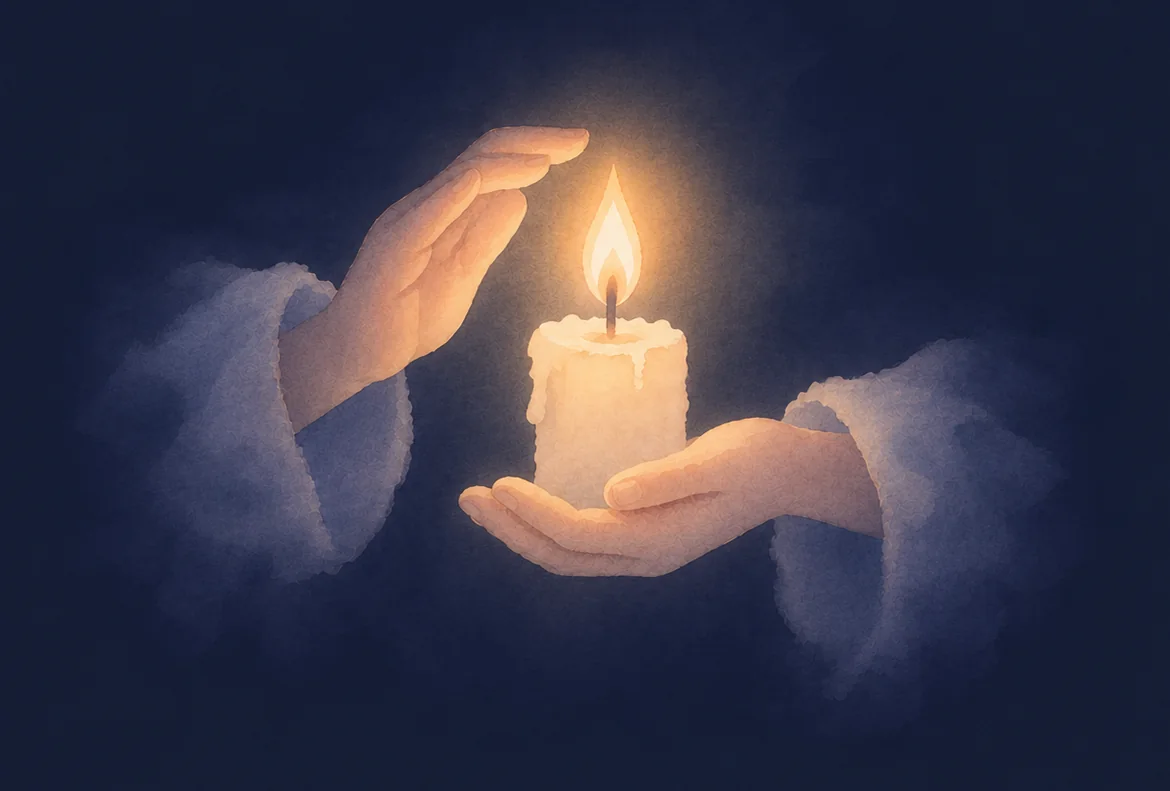
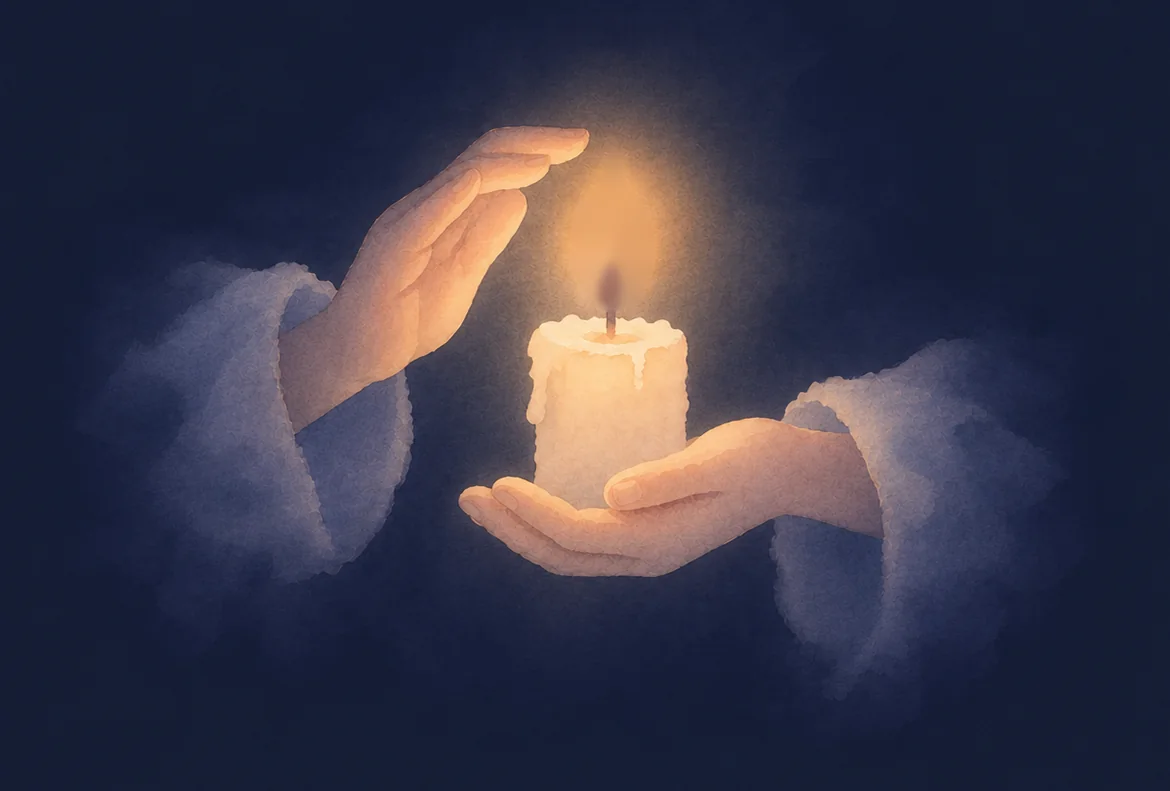
Bougie du soir : flamme détourée qui se balance et frémit depuis la mèche, sans dédoublement
Claude-Session: https://claude.ai/code/session_0196ydQFmaQnBobAw6Q2y82i

Changed region(s): [[0.4923, 0.2124, 0.5538, 0.3944]]

diff --git a/src/css/app.css b/src/css/app.css
@@ -418,7 +418,13 @@ h2 { margin: 0 0 8px; font-weight: 300; font-size: clamp(22px, 7vw, 28px); line-
 /* La bougie : l'image entière, plus fondue sur les côtés ; la flamme vacille depuis la mèche, son halo respire. */
 .respiration.bougie { aspect-ratio: 1672 / 941; margin-top: 4px; }
 .respiration.bougie.nuit { aspect-ratio: 1213 / 820; }
-.b-flamme { position: absolute; background-repeat: no-repeat; transform-origin: 50% 92%;
+.b-flamme { position: absolute; animation: b-balance 5.3s ease-in-out infinite; }
+.b-flamme img { display: block; width: 100%; height: 100%; animation: b-fremit 1.9s ease-in-out infinite; }
+/* Une flamme dans l'air calme : un lent balancement, et de petits frémissements irréguliers qui l'étirent et l'affinent. */
+@keyframes b-balance { 0%, 100% { transform: rotate(0); } 22% { transform: rotate(-1.4deg); } 41% { transform: rotate(.6deg); } 63% { transform: rotate(1.3deg); } 82% { transform: rotate(-.5deg); } }
+@keyframes b-fremit { 0%, 100% { transform: scale(1, 1); } 13% { transform: scale(.985, 1.035); } 21% { transform: scale(1.01, .985); } 34% { transform: scale(.99, 1.02); }
+  46% { transform: scale(1.005, .995); } 58% { transform: scale(.975, 1.05); } 66% { transform: scale(1.01, .98); } 79% { transform: scale(.995, 1.015); } 90% { transform: scale(1.005, .99); } }
+.b-flamme-jour { position: absolute; background-repeat: no-repeat; transform-origin: 50% 92%;
   -webkit-mask-image: radial-gradient(ellipse 50% 50% at 50% 50%, #000 60%, transparent 100%); mask-image: radial-gradient(ellipse 50% 50% at 50% 50%, #000 60%, transparent 100%);
   animation: b-vacille 2.3s ease-in-out infinite; }
 @keyframes b-vacille { 0% { transform: scale(1, 1) skewX(0); } 9% { transform: scale(.97, 1.05) skewX(-2deg); } 17% { transform: scale(1.02, .97) skewX(1.5deg); }
@@ -426,11 +432,13 @@ h2 { margin: 0 0 8px; font-weight: 300; font-size: clamp(22px, 7vw, 28px); line-
   58% { transform: scale(1.02, .96) skewX(.5deg); } 66% { transform: scale(.99, 1.06) skewX(2deg); } 77% { transform: scale(1.01, .98) skewX(-1.5deg); }
   88% { transform: scale(.98, 1.03) skewX(1deg); } 100% { transform: scale(1, 1) skewX(0); } }
 .b-halo { position: absolute; width: 46%; aspect-ratio: 1; transform: translate(-50%, -50%); border-radius: 50%;
-  background: radial-gradient(circle, rgba(255,214,150,.55) 0%, rgba(255,200,130,.22) 35%, rgba(255,200,130,0) 70%); animation: b-respire 3.1s linear infinite; }
-.bougie.nuit .b-halo { mix-blend-mode: screen; width: 60%; }
-.bougie.jour .b-halo { background: radial-gradient(circle, rgba(255,226,170,.5) 0%, rgba(255,220,160,.18) 35%, rgba(255,220,160,0) 70%); }
-@keyframes b-respire { 0% { opacity: .55; } 11% { opacity: .8; } 19% { opacity: .45; } 30% { opacity: .7; } 38% { opacity: .6; } 49% { opacity: .9; }
+  background: radial-gradient(circle, rgba(255,214,150,.55) 0%, rgba(255,200,130,.22) 35%, rgba(255,200,130,0) 70%); animation: b-respire 1.9s ease-in-out infinite; }
+.bougie.nuit .b-halo { mix-blend-mode: screen; width: 60%; animation: b-respire 1.9s ease-in-out infinite; }
+.bougie.jour .b-halo { animation: b-respire-jour 3.1s linear infinite; }
+@keyframes b-respire-jour { 0% { opacity: .55; } 11% { opacity: .8; } 19% { opacity: .45; } 30% { opacity: .7; } 38% { opacity: .6; } 49% { opacity: .9; }
   57% { opacity: .5; } 68% { opacity: .75; } 76% { opacity: .4; } 87% { opacity: .7; } 100% { opacity: .55; } }
+.bougie.jour .b-halo { background: radial-gradient(circle, rgba(255,226,170,.5) 0%, rgba(255,220,160,.18) 35%, rgba(255,220,160,0) 70%); }
+@keyframes b-respire { 0%, 100% { opacity: .7; } 13% { opacity: .8; } 21% { opacity: .64; } 34% { opacity: .76; } 46% { opacity: .7; } 58% { opacity: .85; } 66% { opacity: .62; } 79% { opacity: .74; } 90% { opacity: .68; } }
 
 /* De jour : deux moineaux, sur un cycle de 22 s. L'un quitte son olivier et file derrière le clocher ;
    l'autre arrive de la droite et se pose sur un olivier, puis s'efface. */
@@ -463,4 +471,4 @@ h2 { margin: 0 0 8px; font-weight: 300; font-size: clamp(22px, 7vw, 28px); line-
 @keyframes v-bougie { 0% { opacity: .5; } 7% { opacity: .72; } 12% { opacity: .4; } 20% { opacity: .62; } 27% { opacity: .55; } 34% { opacity: .82; }
   41% { opacity: .46; } 49% { opacity: .66; } 55% { opacity: .35; } 63% { opacity: .7; } 71% { opacity: .52; } 78% { opacity: .78; } 86% { opacity: .42; } 93% { opacity: .64; } 100% { opacity: .5; } }
 .v-etoile { position: absolute; width: 2px; height: 2px; border-radius: 50%; background: #F4EEDF; box-shadow: 0 0 4px 1px rgba(244,238,223,.35); animation: scintille 6s ease-in-out infinite; }
-@media (prefers-reduced-motion: reduce) { .v-arbre, .v-oiseau, .v-oiseau i, .v-lum, .v-etoile, .b-flamme, .b-halo { animation: none; } .v-oiseau { display: none; } }
+@media (prefers-reduced-motion: reduce) { .v-arbre, .v-oiseau, .v-oiseau i, .v-lum, .v-etoile, .b-flamme, .b-flamme img, .b-flamme-jour, .b-halo { animation: none; } .v-oiseau { display: none; } }

diff --git a/src/js/app.js b/src/js/app.js
@@ -344,11 +344,17 @@
   }
   // Seconde respiration, avant « Le savais-tu ? » : des mains qui protègent une bougie ; la flamme vacille et sa lumière respire.
   function bougie() {
-    var nuit = estNuit(), src = 'img/bougie-' + (nuit ? 'nuit' : 'jour') + '.webp';
-    var f = nuit ? [1213, 820, 590, 150, 680, 318] : [1672, 941, 816, 356, 900, 506];
-    var cx = ((f[2] + f[4]) / 2 / f[0] * 100).toFixed(2), cy = ((f[3] + f[5]) / 2 / f[1] * 100).toFixed(2);
-    return '<div class="respiration bougie ' + (nuit ? 'nuit' : 'jour') + '" aria-hidden="true"><img src="' + src + '" alt="" decoding="async">' +
-      '<span class="b-halo" style="left:' + cx + '%;top:' + cy + '%"></span>' + morceau(src, f[0], f[1], f[2], f[3], f[4], f[5], 'b-flamme') + '</div>';
+    var nuit = estNuit(), m = nuit ? 'nuit' : 'jour', src = 'img/bougie-' + m + '.webp';
+    var h = '<div class="respiration bougie ' + m + '" aria-hidden="true"><img src="' + src + '" alt="" decoding="async">';
+    if (!nuit) {
+      // De jour : un morceau de l'image autour de la flamme, qui vacille depuis la mèche, et un halo qui respire.
+      return h + '<span class="b-halo" style="left:51.32%;top:45.81%"></span>' + morceau(src, 1672, 941, 816, 356, 900, 506, 'b-flamme-jour') + '</div>';
+    }
+    // Le soir : la flamme est détourée à part (le fond de l'image a été comblé dessous) ; elle se balance depuis la mèche et frémit.
+    var f = { l: 47.16, t: 16.95, w: 10.31, h: 23.05, oy: 88.4 };
+    return h + '<span class="b-halo" style="left:' + (f.l + f.w / 2).toFixed(2) + '%;top:' + (f.t + f.h * .55).toFixed(2) + '%"></span>' +
+      '<span class="b-flamme" style="left:' + f.l + '%;top:' + f.t + '%;width:' + f.w + '%;height:' + f.h + '%;transform-origin:50% ' + f.oy + '%">' +
+      '<img src="img/bougie-nuit-flamme.webp" alt="" decoding="async" style="transform-origin:50% ' + f.oy + '%"></span></div>';
   }
   function respiration() {
     if (estNuit()) {
